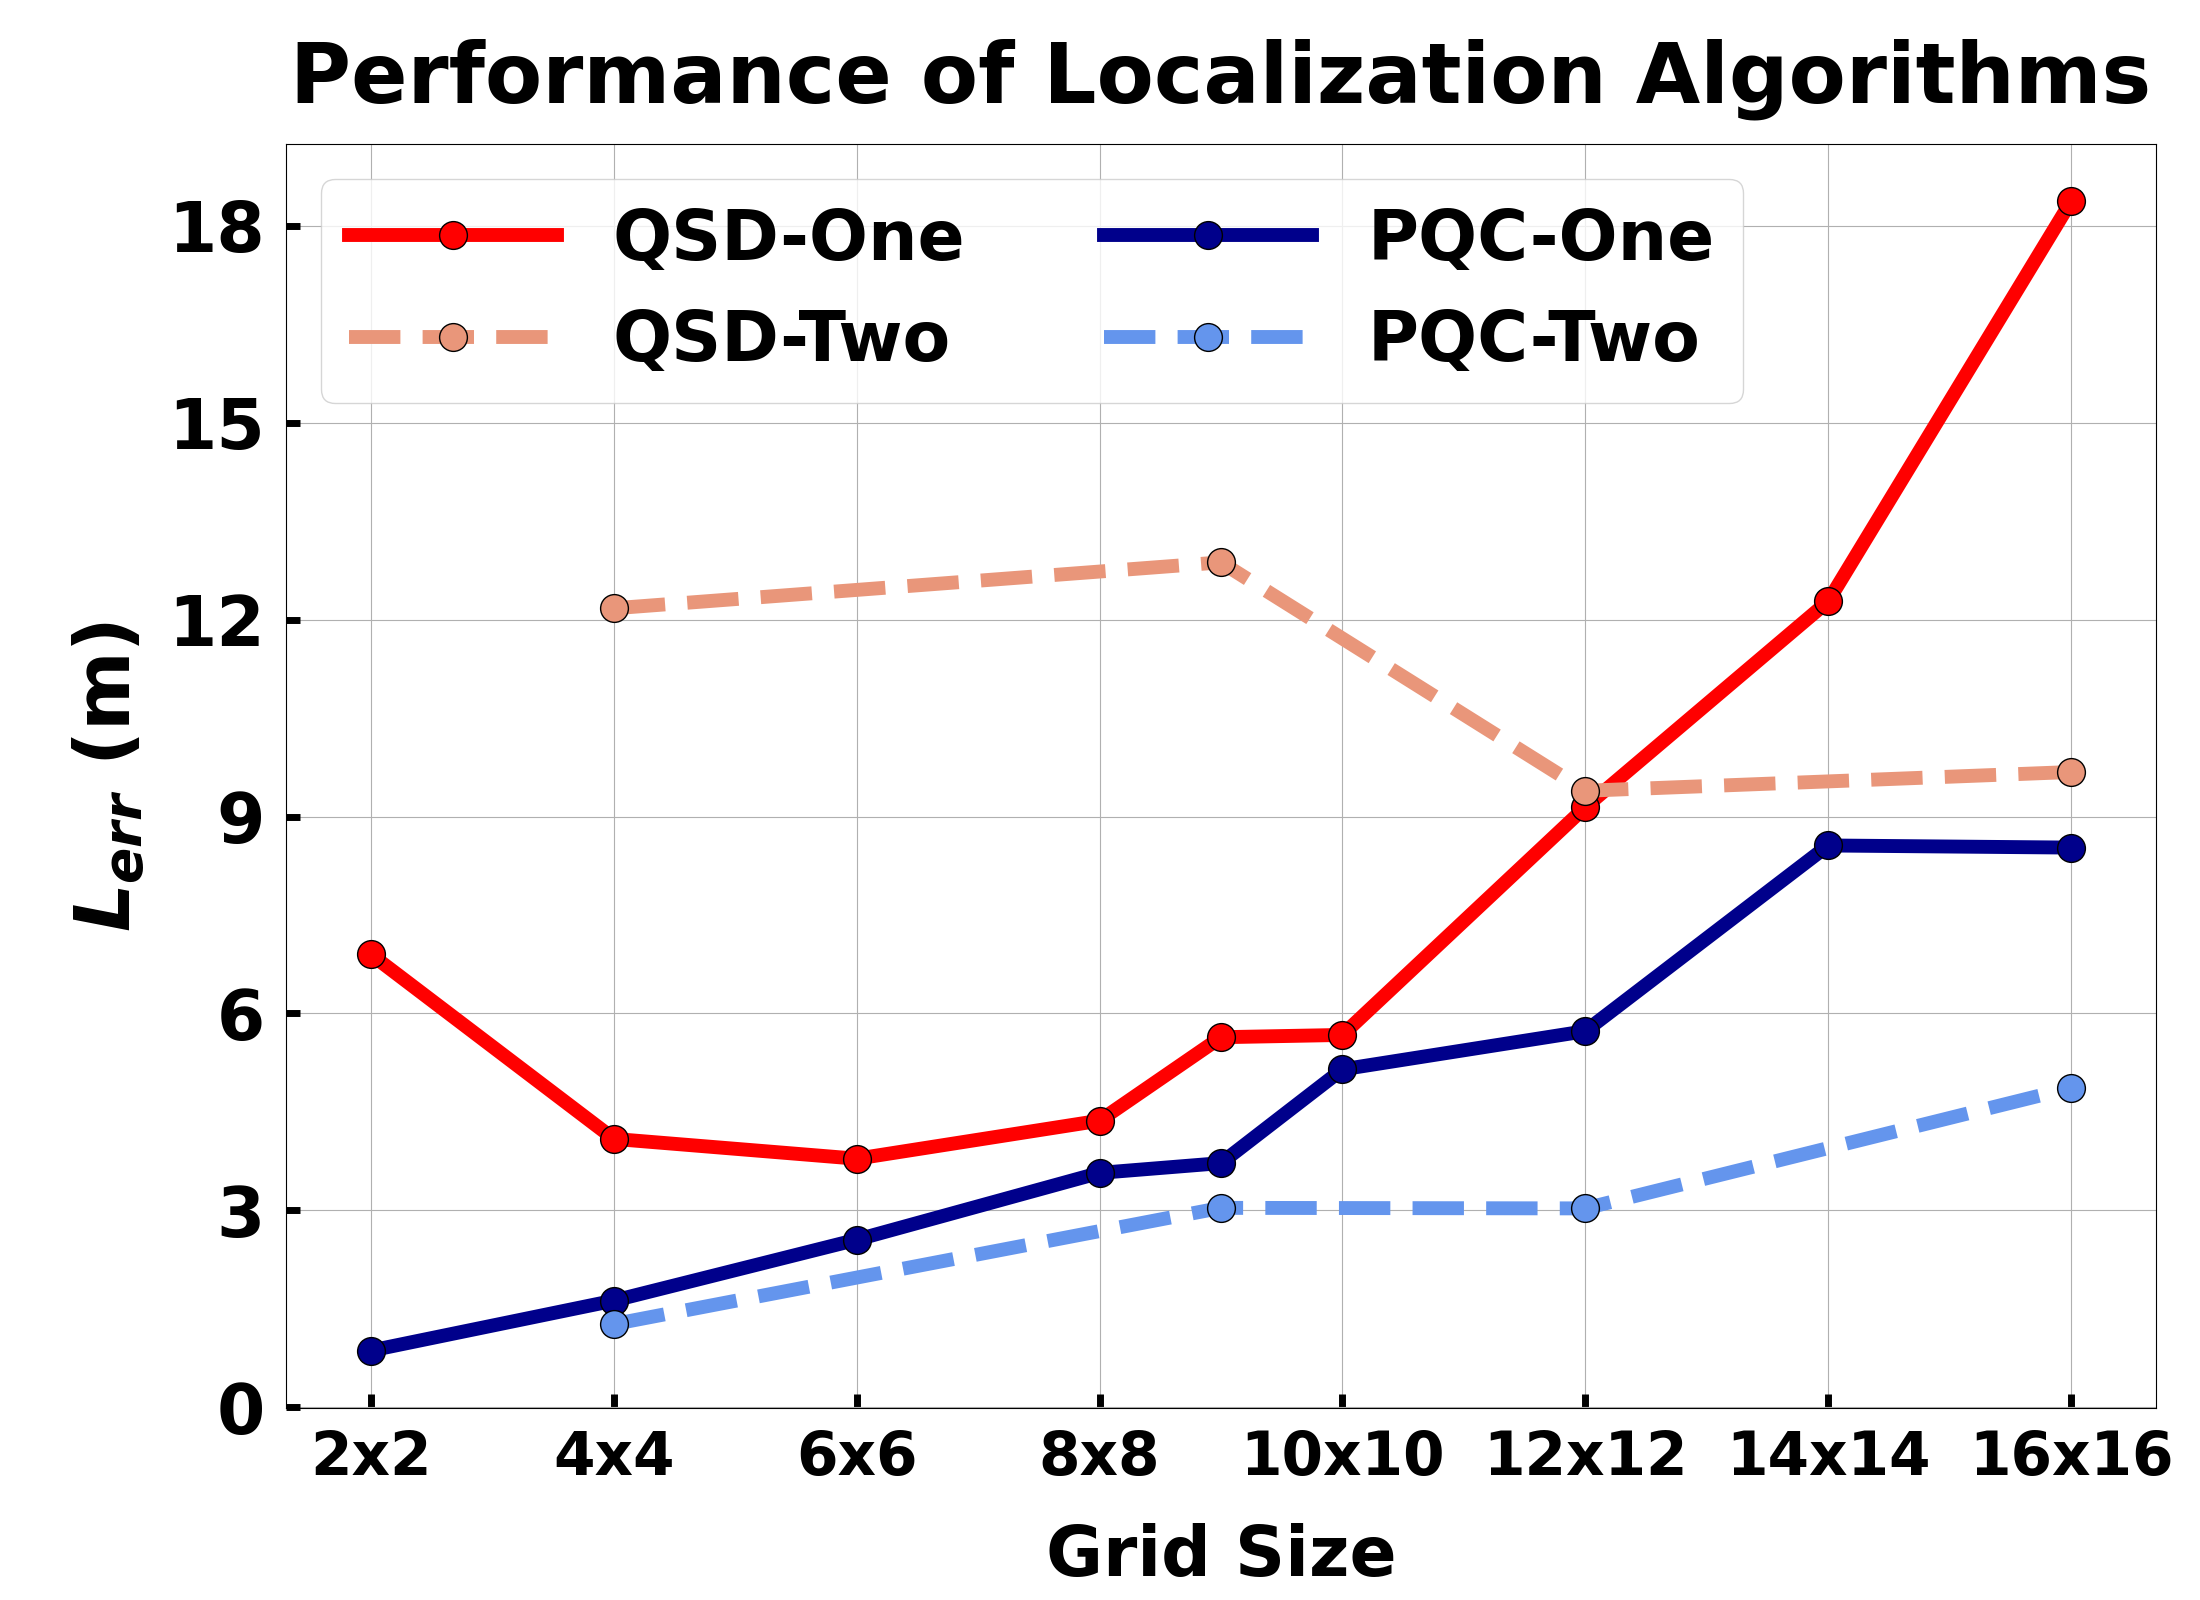
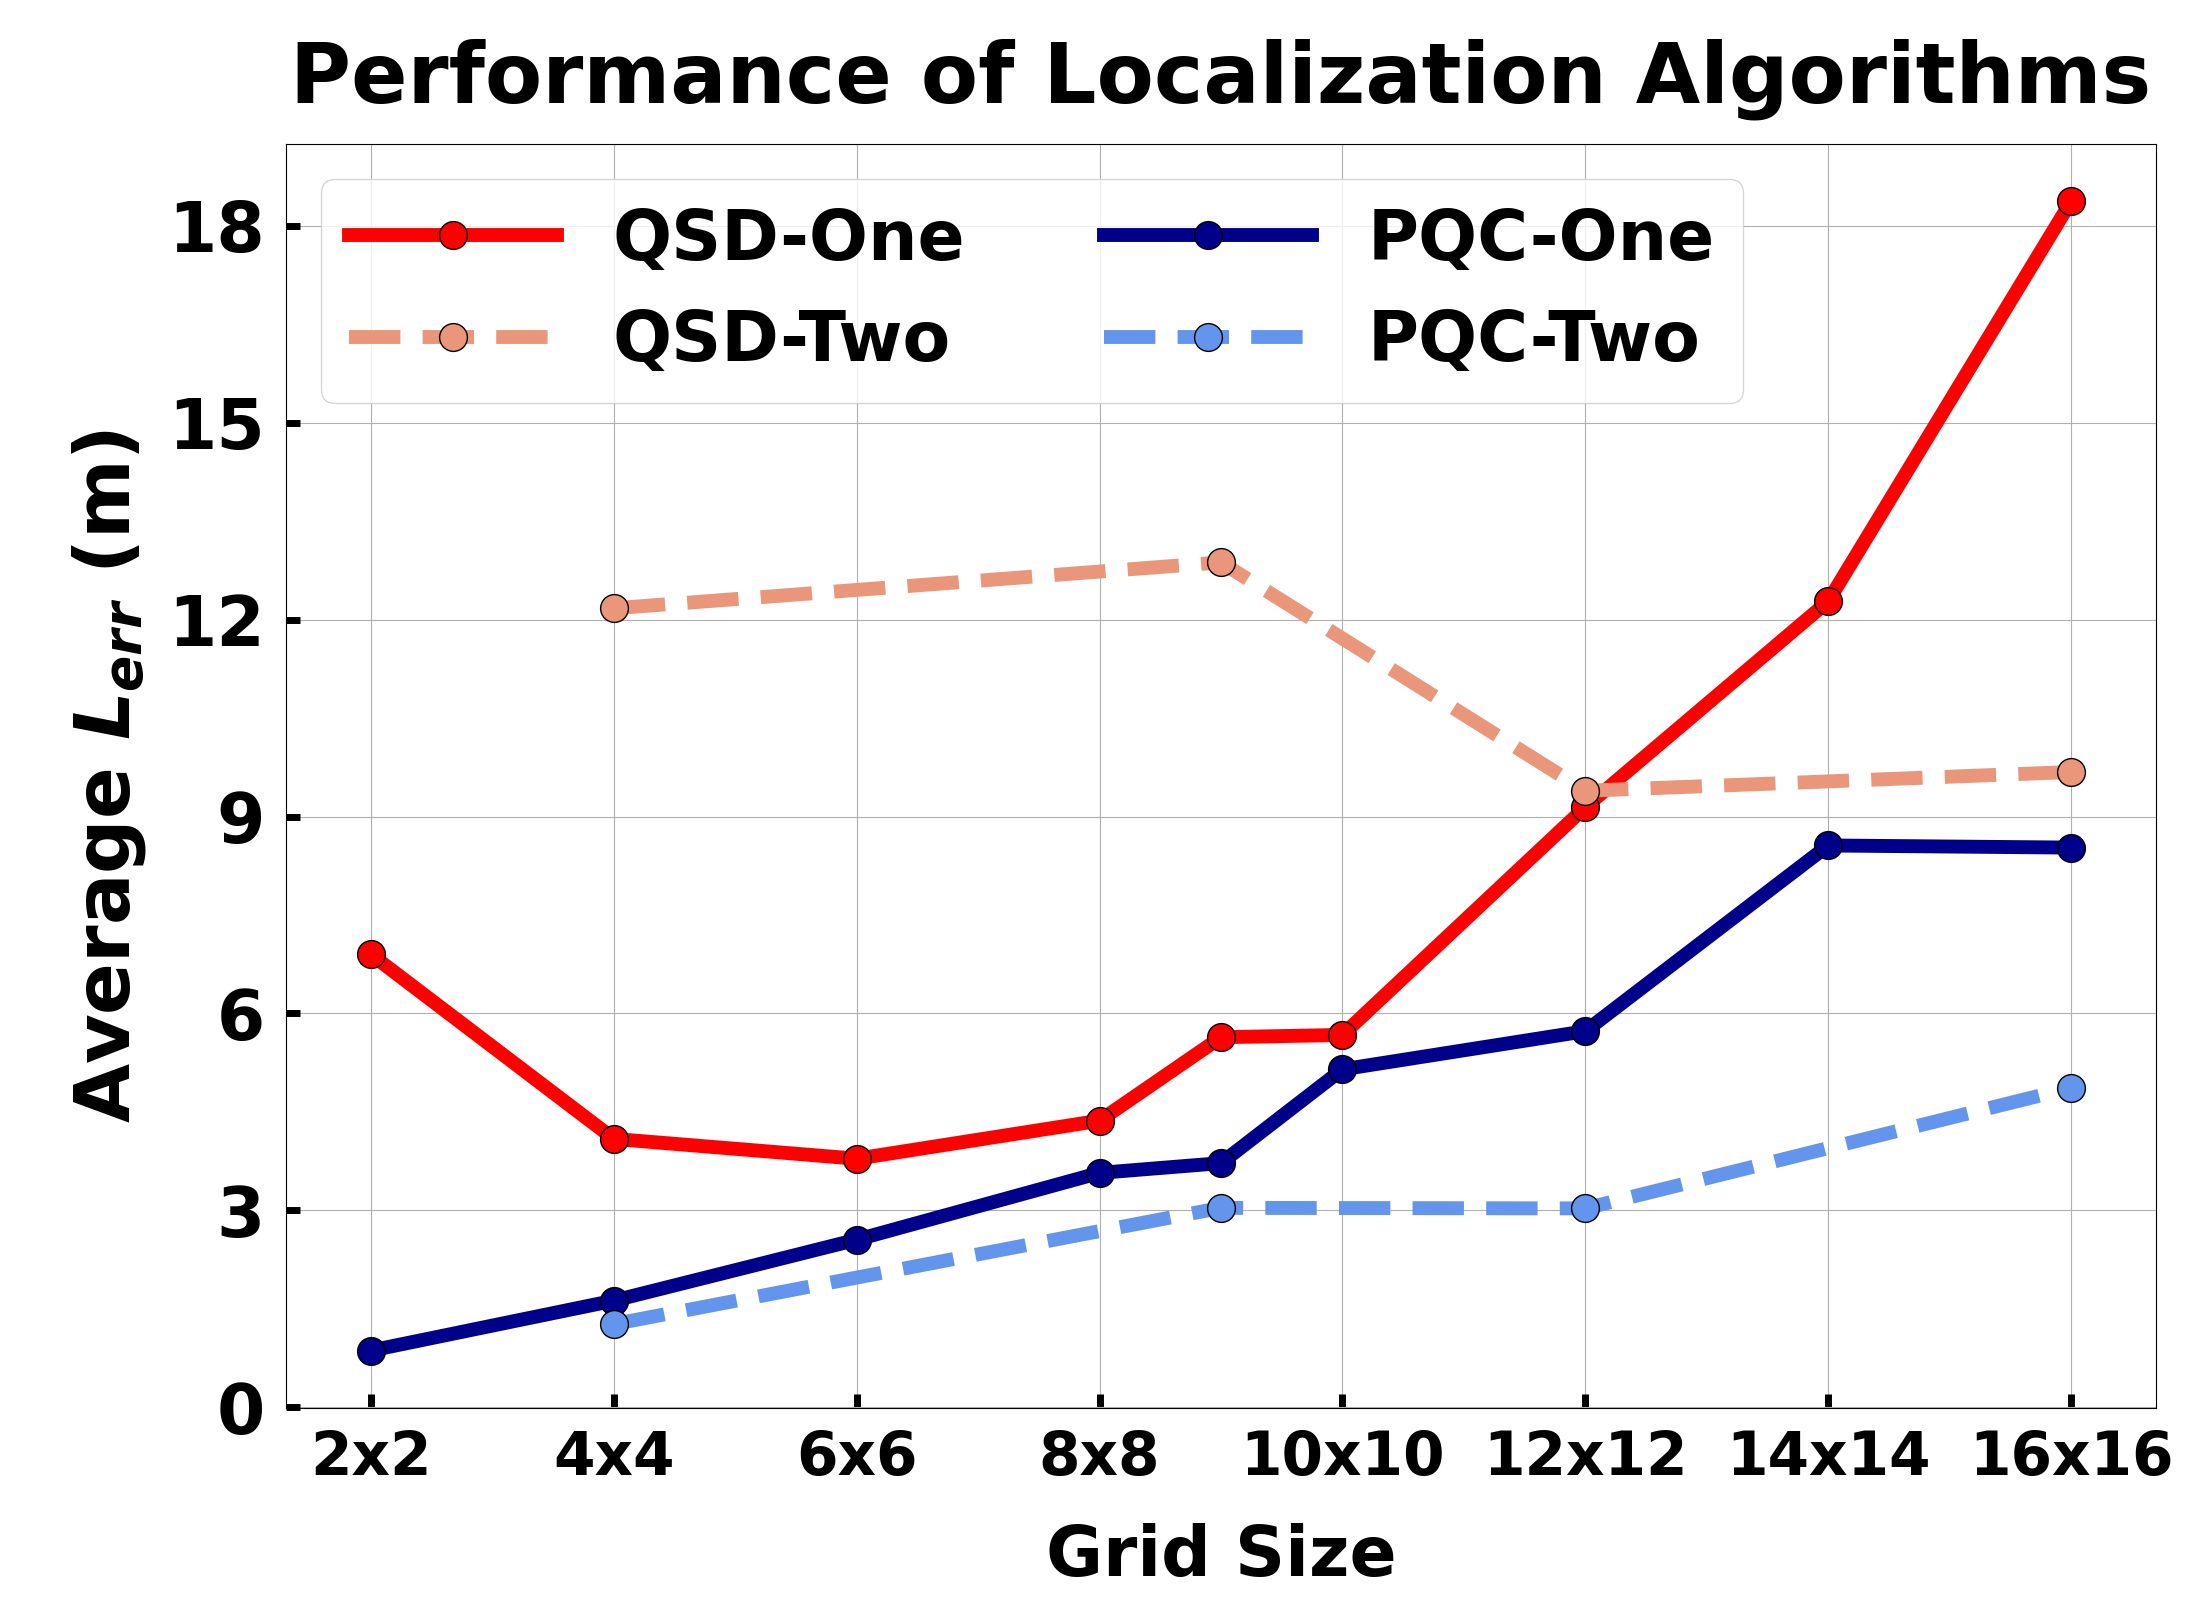
update plots

Changed region(s): [[0.0309, 0.25, 0.0618, 0.7188]]

diff --git a/plot.py b/plot.py
@@ -121,7 +121,7 @@ class Plot:
         ax1.set_yticks(Y)
         ax1.tick_params(axis='x', pad=15, direction='in', length=10, width=5, labelsize=43)
         ax1.tick_params(axis='y', pad=15, direction='in', length=10, width=5)
-        ax1.set_ylabel(f'{l_err} (m)', labelpad=15, fontsize=55)
+        ax1.set_ylabel(f'Average {l_err} (m)', labelpad=15, fontsize=55)
         ax1.set_title(f'Performance of Localization Algorithms', pad=30, fontweight='bold')
         fig.savefig(figname)
 
@@ -223,7 +223,7 @@ class Plot:
         ax1.set_xticklabels([f'{int(x)}' for x in X])
         ax1.tick_params(axis='x', pad=15, length=10, width=5)
         ax1.tick_params(axis='y', pad=15, direction='in', length=10, width=5)
-        ax1.set_ylabel(f'{l_err} (m)', labelpad=20, fontsize=55)
+        ax1.set_ylabel(f'Average {l_err} (m)', labelpad=20, fontsize=55)
         ax1.set_title(f'Localization Performance in 16x16 Grid', pad=30, fontweight='bold')
         fig.savefig(figname)
 
@@ -578,10 +578,10 @@ if __name__ == '__main__':
 
     continuous_varygrid()
     continuous_varysensornum()
-    localization_error_cdf()
+    # localization_error_cdf()
     
-    discrete_varygrid()
-    discrete_varysensornum()
+    # discrete_varygrid()
+    # discrete_varysensornum()
     
 
     # IBM    
